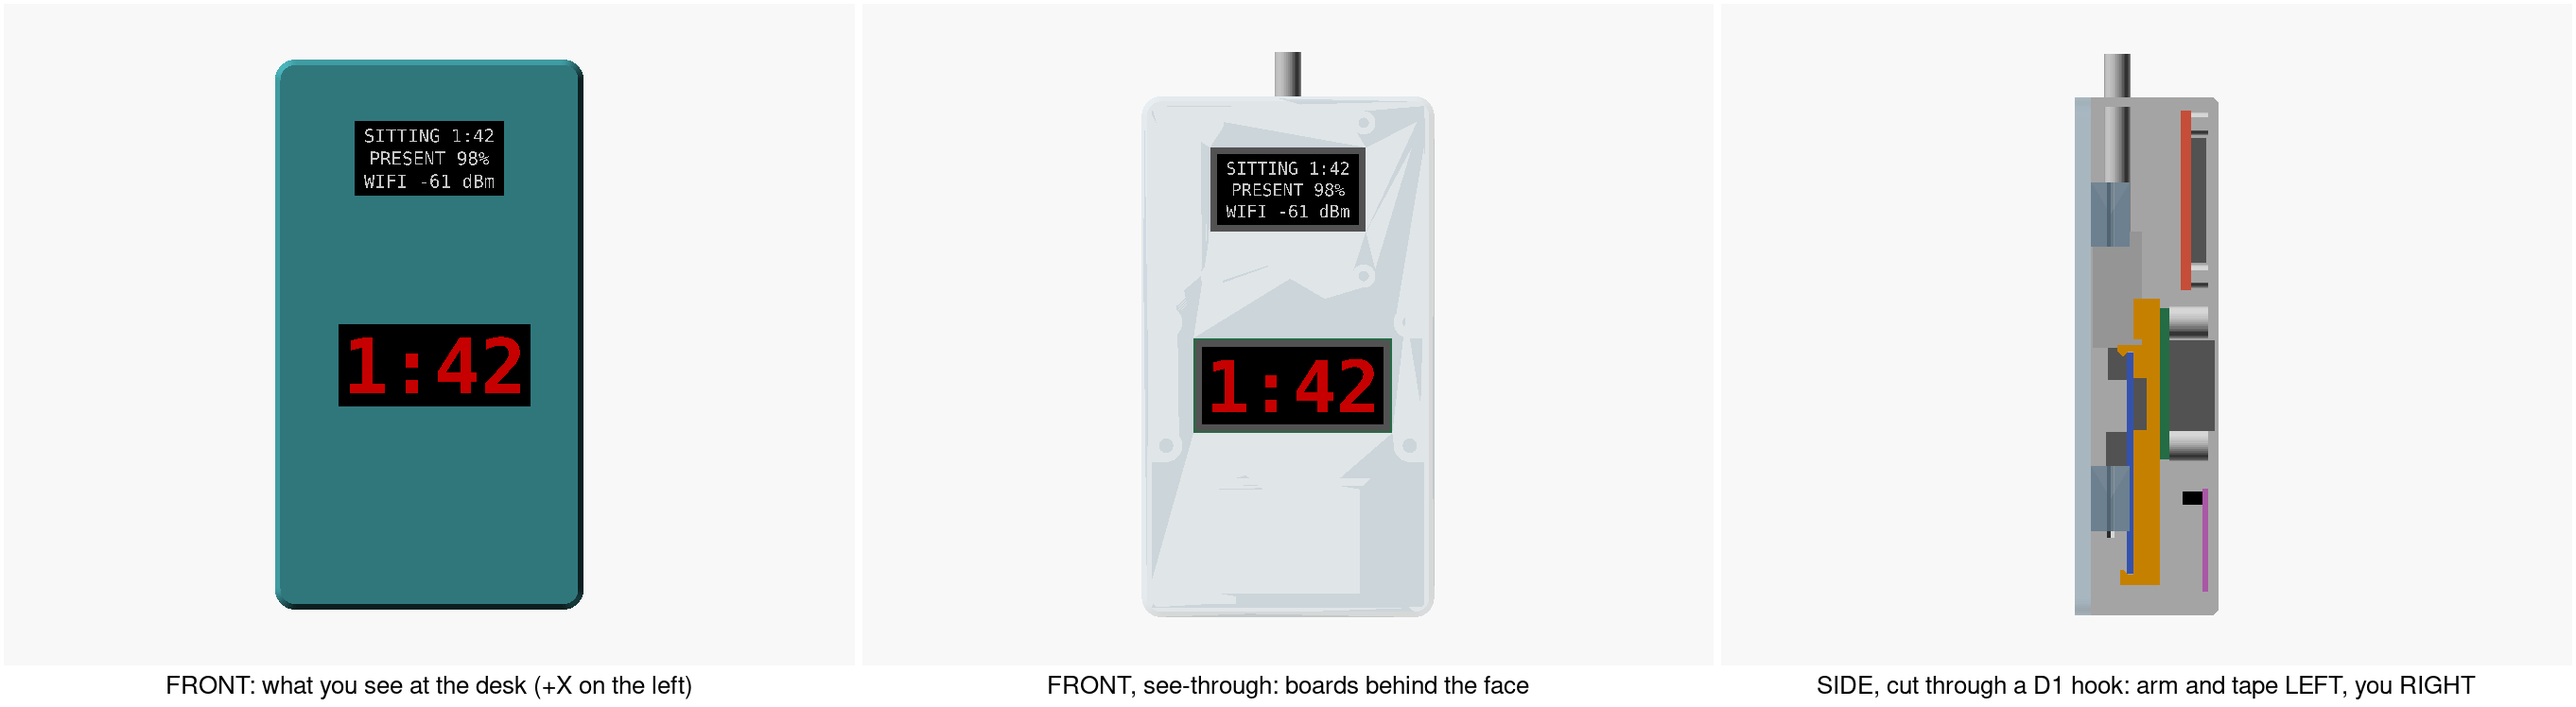
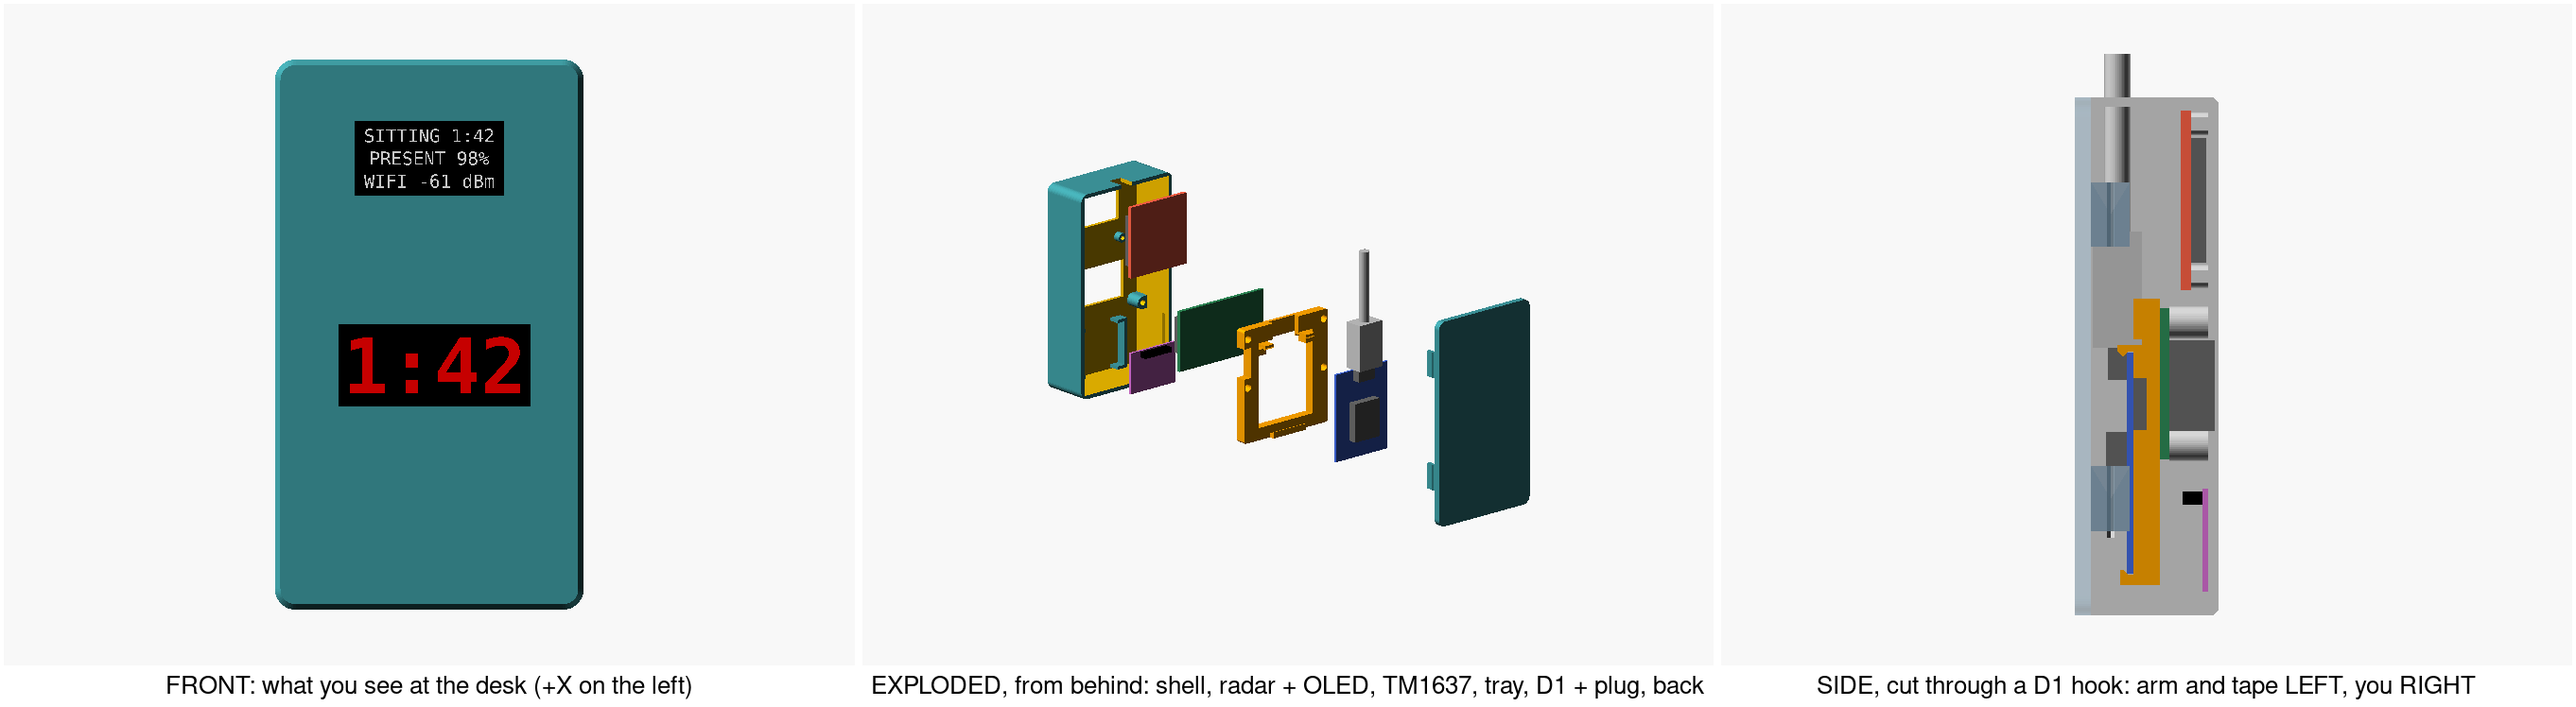
desk-presence-sensor: assembly sheet shows an exploded view in place of the see-through front
Layers pulled apart along the depth in assembly order, seen from behind: shell, radar
and OLED, TM1637, tray, D1 and plug, back plate. The stand-ins split into one module
per board so the view can move each.

Changed region(s): [[0.4057, 0.1537, 0.5929, 0.8917], [0.3432, 0.9532, 0.6553, 0.984], [0.4681, 0.0615, 0.5305, 0.1537]]

diff --git a/projects/desk-presence-sensor/assembly.py b/projects/desk-presence-sensor/assembly.py
@@ -2,7 +2,7 @@
 
     uv run python projects/desk-presence-sensor/assembly.py   ->  out/desk-presence-sensor_assembly_views.png
 
-Panels: the front as seen at the desk, the front see-through (boards and tray behind the face),
+Panels: the front as seen at the desk, the parts exploded along the depth in assembly order,
 and a side section through a D1 hook, the tray and the D1 mini, with the USB plug behind it.
 """
 import shutil, subprocess, sys, tempfile
@@ -15,7 +15,7 @@ from shop.scad import OpenSCAD
 HERE = Path(__file__).parent
 PANELS = [
     ("FRONT: what you see at the desk (+X on the left)", "front", "0,0,300"),
-    ("FRONT, see-through: boards behind the face", "front_xray", "0,0,300"),
+    ("EXPLODED, from behind: shell, radar + OLED, TM1637, tray, D1 + plug, back", "layers", "-300,-340,150"),
     ("SIDE, cut through a D1 hook: arm and tape LEFT, you RIGHT", "side_xray", "0,0,300"),
 ]
 
